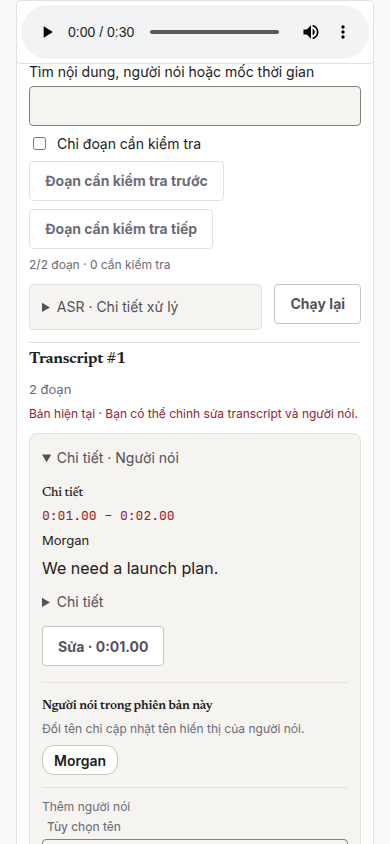
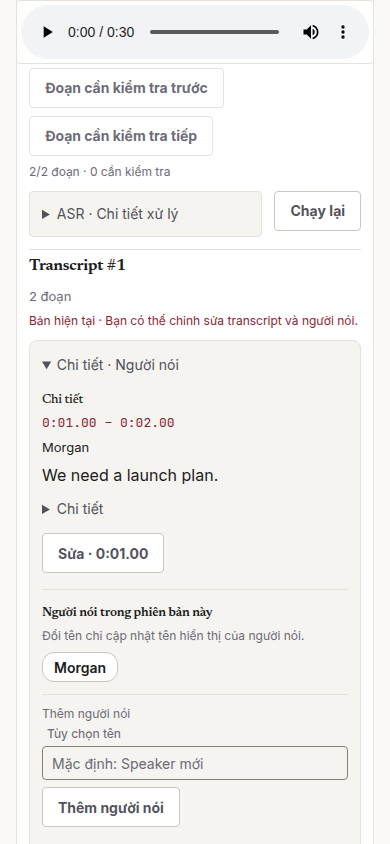
test: restore native transcript disclosure paths

diff --git a/tests/test_browser_asr_model.py b/tests/test_browser_asr_model.py
@@ -38,6 +38,22 @@ INVITES_RETRY = "hãy bấm để thử lại"
 NO_CONFIDENCE = "“cần kiểm tra” không xét độ tin cậy của chữ"
 
 
+def open_processing_details(page):
+    """Activate the native processing disclosure before using its completed controls."""
+    details = page.locator("#transcript-processing")
+    # The shell starts this disclosure open, but the first saved-generation paint
+    # closes it. Wait for that real render before inspecting the native state.
+    expect(page.locator("#transcript-generation")).to_be_visible()
+    expect(page.locator("#generation-title")).to_have_text(re.compile(r"^Transcript #\d+$"))
+    summary = details.locator(":scope > summary")
+    summary.focus()
+    expect(summary).to_be_focused()
+    if not details.evaluate("element => element.open"):
+        summary.press("Enter")
+    expect(details).to_have_attribute("open", "")
+    return details
+
+
 @pytest.fixture
 def worker(live):
     """A healthy GPU worker whose default model is prepared, seen by the running server."""
@@ -148,6 +164,7 @@ def test_a_choice_goes_with_one_run_and_the_transcripts_can_be_compared(live, si
     expect(page.locator("#generation-title")).to_have_text("Transcript #1", timeout=8_000)
     expect(meta).to_contain_text("qwen3-asr-1.7b · GPU · CUDA · bfloat16")
 
+    open_processing_details(page)
     selector.select_option("pho-whisper-large")
     expect(page.locator("#transcription-model-help")).to_contain_text("Tối ưu tiếng Việt")
     expect(page.locator("#transcription-model-help")).to_contain_text("Không dành cho English")
@@ -180,6 +197,7 @@ def test_a_choice_goes_with_one_run_and_the_transcripts_can_be_compared(live, si
     # The choice belonged to that run: the system default is untouched and a new page starts over.
     assert read_runtime_profile(data_dir).model_path == worker
     page.reload()
+    open_processing_details(page)
     expect(selector).to_have_value("auto")
 
 
@@ -718,6 +736,7 @@ def test_transcript_details_follow_saved_diarization_provenance(live, signed_in,
     evidence_dir = os.environ.get("ASR_UI_EVIDENCE_DIR")
 
     page.goto(f"{live.url}/meetings/{meeting_id}")
+    open_processing_details(page)
     expect(summary).to_be_visible()
     summary.press("Enter")
     expect(summary).to_be_focused()
@@ -758,6 +777,7 @@ def test_transcript_details_follow_saved_diarization_provenance(live, signed_in,
     )
 
     generations.select_option(off)
+    open_processing_details(page)
     expect(page.locator("#generation-mode")).to_have_text(
         "Historical version · Read-only." if english else "Bản lịch sử · Chỉ đọc."
     )
@@ -869,6 +889,7 @@ def test_only_a_transcript_without_confidence_scores_qualifies_its_review_count(
     expect(meta).not_to_contain_text(NO_CONFIDENCE)
 
     # The same warning where the model is chosen, before any count exists.
+    open_processing_details(page)
     page.get_by_role("combobox", name="Model ASR", exact=True).select_option("qwen3-asr-1.7b")
     expect(page.locator("#transcription-model-help")).to_contain_text("Không có điểm tin cậy")
 
@@ -965,6 +986,7 @@ def test_automatic_runs_the_default_from_settings_and_one_run_can_still_differ(
     expect(meta).to_contain_text("pho-whisper-large · GPU · CUDA · float16", timeout=8_000)
 
     # One run with another model leaves the default where it was.
+    open_processing_details(page)
     selector.select_option("whisper-large-v3")
     page.get_by_role("button", name="Chạy lại").click()
     expect(page.get_by_role("button", name="Hủy")).to_be_visible()
@@ -1176,6 +1198,7 @@ def test_asr_catalog_and_community_dependency(live, signed_in, layout, width, he
     expect(create).to_be_focused()
 
     page.goto(f"{live.url}/meetings/{meeting_id}")
+    open_processing_details(page)
     selector = page.locator("#transcription-model")
     expect(selector.locator("option")).to_have_count(4)
     expect(selector.locator(f'option[value="{ready}"]')).to_contain_text("Fixture V2")
@@ -1187,6 +1210,9 @@ def test_asr_catalog_and_community_dependency(live, signed_in, layout, width, he
         page.locator("#speaker-name-help").scroll_into_view_if_needed()
         evidence("rerun-and-names")
 
+    context = page.locator("#transcript-context")
+    if not context.evaluate("element => element.open"):
+        context.locator(":scope > summary").click()
     page.locator("#speaker-catalog .speaker-chip").press("Enter")
     name = page.locator(".speaker-name-form input")
     expect(name).to_be_focused()

diff --git a/docs/assets/frontend/issue-283/capture.py b/docs/assets/frontend/issue-283/capture.py
@@ -80,11 +80,14 @@ with tempfile.TemporaryDirectory(prefix="transcript-283-") as tmp:
                             }
                         )
                         if phase == "after":
-                            page.locator(
-                                "#transcript-context > summary"
-                            ).scroll_into_view_if_needed()
-                            if not page.locator("#transcript-context").evaluate("el => el.open"):
-                                page.locator("#transcript-context > summary").click()
+                            transcript_context = page.locator("#transcript-context")
+                            summary = transcript_context.locator(":scope > summary")
+                            summary.scroll_into_view_if_needed()
+                            if not transcript_context.evaluate("el => el.open"):
+                                summary.click()
+                            catalog = page.locator("#speaker-catalog")
+                            catalog.scroll_into_view_if_needed()
+                            catalog.locator(".speaker-chip").first.scroll_into_view_if_needed()
                             page.screenshot(
                                 path=str(out / f"{phase}-context-{device}-{theme}-{lang}.png"),
                                 full_page=False,

diff --git a/docs/frontend-design.md b/docs/frontend-design.md
@@ -145,7 +145,7 @@ Bấm timestamp trong transcript tua trình phát tới đoạn đó và phát; 
 Khi audio đang phát và đoạn đang phát (`aria-current`) đổi, nếu còn thấy một phần danh sách đoạn trong vùng nhìn thấy bên dưới thanh trình phát thì đoạn đó được đưa vào tầm nhìn bằng cuộn gần nhất (`block: "nearest"`), dưới thanh trình phát; khi người dùng bật giảm chuyển động, cuộn tức thì. Không tự cuộn khi audio tạm dừng, trong 2 giây sau khi người dùng cuộn tay (con lăn, chạm, phím cuộn hoặc kéo thanh cuộn), khi focus đang nằm trong một ô sửa của transcript, hay khi cả danh sách đoạn nằm ngoài vùng nhìn thấy đó, kể cả khi danh sách đang ẩn vì tab Meeting notes đang mở. Nhờ vậy người đang đọc notes không bị kéo về transcript. Mở nguồn từ notes là một thao tác chủ động khác: đoạn nguồn được đánh dấu bằng nhãn **Nguồn của mục notes** và đưa vào tầm nhìn bằng cuộn gần nhất (cuộn tức thì khi bật giảm chuyển động), chỉ khi chưa thấy được dưới thanh trình phát. Mọi đích cuộn trong tab Transcript & bản ghi (đoạn transcript) đều dừng dưới thanh trình phát, không nằm dưới nó; tab Meeting notes không ghim thanh nào nên không để dành chỗ. Trình duyệt cũng cuộn control nhận focus bàn phím xuống dưới thanh; riêng ô nhập văn bản có thể chỉ lộ dòng chứa con trỏ, nên một phần của ô vẫn có thể nằm dưới thanh trình phát.
 Khi audio đang phát và đoạn đang phát (`aria-current`) đổi, nếu còn thấy một phần danh sách đoạn trong vùng nhìn thấy bên dưới thanh trình phát thì đoạn đó được đưa vào tầm nhìn bằng cuộn gần nhất (`block: "nearest"`), dưới thanh trình phát; khi người dùng bật giảm chuyển động, cuộn tức thì. Không tự cuộn khi audio tạm dừng, trong 2 giây sau khi người dùng cuộn tay (con lăn, chạm, phím cuộn hoặc kéo thanh cuộn), khi focus đang nằm trong một ô sửa của transcript, hay khi cả danh sách đoạn nằm ngoài vùng nhìn thấy đó, kể cả khi danh sách đang ẩn vì tab Meeting notes đang mở. Nhờ vậy người đang đọc notes không bị kéo về transcript. Mở nguồn từ notes là một thao tác chủ động khác: đoạn nguồn được đánh dấu bằng nhãn **Nguồn của mục notes** và đưa vào tầm nhìn bằng cuộn gần nhất (cuộn tức thì khi bật giảm chuyển động), chỉ khi chưa thấy được dưới thanh trình phát. Mọi đích cuộn trong tab Transcript & bản ghi (đoạn transcript) đều dừng dưới thanh trình phát, không nằm dưới nó; tab Meeting notes không ghim thanh nào nên không để dành chỗ. Trình duyệt cũng cuộn control nhận focus bàn phím xuống dưới thanh; riêng ô nhập văn bản có thể chỉ lộ dòng chứa con trỏ, nên một phần của ô vẫn có thể nằm dưới thanh trình phát.
 
-Disclosure **Chi tiết · Người nói** chứa đoạn đang được chọn, speaker catalog và các thao tác speaker hiện có. Trên desktop nó mở cạnh danh sách và tự cuộn trong vùng nhìn thấy dưới player; trên màn hình hẹp nó nằm trước danh sách và bắt đầu đóng. Kích hoạt summary bằng bàn phím giữ focus ở summary; focus vào một hàng chỉ cập nhật context, không mở editor, tua audio hay chuyển focus. Link **Đặt tên trước** từ Notes mở disclosure (và thế hệ hiện tại) trước khi đưa focus tới tiêu đề catalog.
+Disclosure **Chi tiết · Người nói** chứa đoạn đang được chọn, speaker catalog và các thao tác speaker hiện có. Trên desktop nó mở cạnh danh sách và tự cuộn trong vùng nhìn thấy dưới player; trên màn hình hẹp nó nằm trước danh sách và bắt đầu đóng. Kích hoạt summary bằng bàn phím giữ focus ở summary; focus vào một hàng chỉ cập nhật context, không mở editor, tua audio hay chuyển focus. Link **Đặt tên trước** từ Notes mở disclosure (và thế hệ hiện tại) trước khi đưa focus tới tiêu đề catalog. Bằng chứng portable mở disclosure bằng summary native rồi cuộn chính catalog và chip đầu tiên vào viewport; không chụp một khối điều khiển trùng lặp.
 
 Bấm **Sửa** mở ô sửa tại đoạn đó, gồm ô nội dung, select người nói, **Lưu đoạn** và **Hủy**; chỉ một ô sửa mở tại một lúc. Nút **Chi tiết · Sửa · timestamp** trong context gọi đúng editor của hàng đó, không tạo select speaker thứ hai. Esc là hủy, Ctrl/⌘+Enter (từ bất kỳ control nào trong ô) là lưu; sau khi lưu hoặc hủy, focus quay lại nút **Sửa** của đoạn đó. Mở đoạn khác đóng ô đang mở nhưng giữ văn bản chưa lưu trong cơ chế bản nháp của transcript; đoạn có bản nháp hiện dấu **Bản nháp chưa lưu** (chữ cùng viền nét đứt, không chỉ màu). Mục **Chi tiết** trong ô sửa chứa **Gán ban đầu** và các chỉ số model (`avg_logprob`, `no_speech_prob`, `compression_ratio`); ở chế độ đọc, các facts kỹ thuật nằm sau disclosure context hoặc trong mục **Chi tiết** đóng sẵn của hàng transcript cũ. Thông báo **Đã lưu** của mọi đoạn đi qua một vùng `aria-live` chung, không có vùng riêng cho từng đoạn. Sau khi lưu, notes hiện có được đánh dấu cần cập nhật; không tự thay nội dung notes.
 

diff --git a/docs/assets/frontend/issue-283/README.md b/docs/assets/frontend/issue-283/README.md
@@ -4,7 +4,7 @@ The before/after images use disposable databases with the same meeting title,
 spoken text, speaker labels and generated sine-wave audio. Internal fixture IDs
 differ. The before checkout is `a112687`. After images were refreshed on the candidate
 that includes the latest-main Notes merge and the ASR completion focus repair;
-the recorded bounds match the initial `895ef66` capture. No real
+the recorded bounds still match the initial `895ef66` capture. No real
 recording, provider request, model inference, user credentials or model download
 is involved. The capture runner never starts audio playback.
 
@@ -12,6 +12,10 @@ Desktop images use 1440×900; mobile images use 390×844. Each covers light/dark
 and Vietnamese/English. `after-context-*` also exposes the contextual segment and
 speaker controls; mobile context samples scroll to the native disclosure.
 `before.json` and `after.json` record viewport bounds, overflow and page errors.
+The after-context pass uses the native context summary and then scrolls the nested
+`#speaker-catalog` and its first speaker chip into the viewport, so desktop and
+mobile context images show the actual speaker controls rather than a duplicate
+base frame. The refreshed matrix reports no horizontal overflow or page errors.
 
 - [Desktop before](before-desktop-light-vi.png)
 - [Desktop after](after-desktop-light-vi.png)

diff --git a/docs/architecture-changes.md b/docs/architecture-changes.md
@@ -3098,5 +3098,15 @@ light/dark and VI/EN; focused regression coverage is in
 The committed capture runner reproduces the sample without provider calls or model loading.
 Independent verification and full CI remain required before issue acceptance.
 
+**R1 remediation evidence.** Reached ASR browser paths now wait for the saved-generation
+paint, focus the native processing summary, and activate it with Enter only when it is
+closed; their original visibility and value assertions remain intact. The bounded helper
+call-site rerun passed 9 nodes after reproducing the three collapsed-disclosure failures.
+The O3 capture runner now scrolls the nested speaker catalog into the context frame; the
+refreshed after-context matrix differs from the base frame while `after.json` retains the
+same measured layout, with no overflow or page errors. O1/O2 feedback and accessibility
+integration remain root-owned parallel work for the common candidate, not a deferred failure
+of this partition.
+
 **Tag / target:** design; `DESIGN.md` Transcript Workspace. Issue:
 [#283](https://github.com/nguyencanhtrung/asr-studio/issues/283).

diff --git a/DESIGN.md b/DESIGN.md
@@ -335,7 +335,9 @@ Native summary activation retains keyboard focus. The notes speaker-naming link 
 before focusing the catalog heading. On desktop the panel starts open and can scroll within
 the viewport below the sticky player. Closing it is always available. Transcript rows retain
 their existing timestamp/edit tab stops and keyboard save/cancel behavior. Playback, drafts,
-revision reads, source citations and source locks keep their existing owners and APIs.
+revision reads, source citations and source locks keep their existing owners and APIs. The
+portable evidence capture scrolls the nested speaker catalog into view before taking its
+context frame; it does not duplicate the controls or alter the base workspace measurements.
 
 The recording identity is one compact line above the unchanged native sticky player; its
 long instruction moves into processing details. Existing fonts, color tokens and centered
